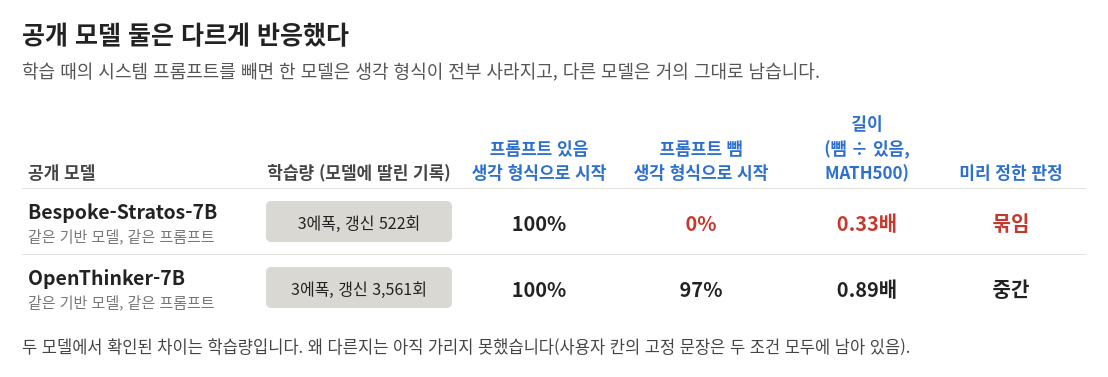
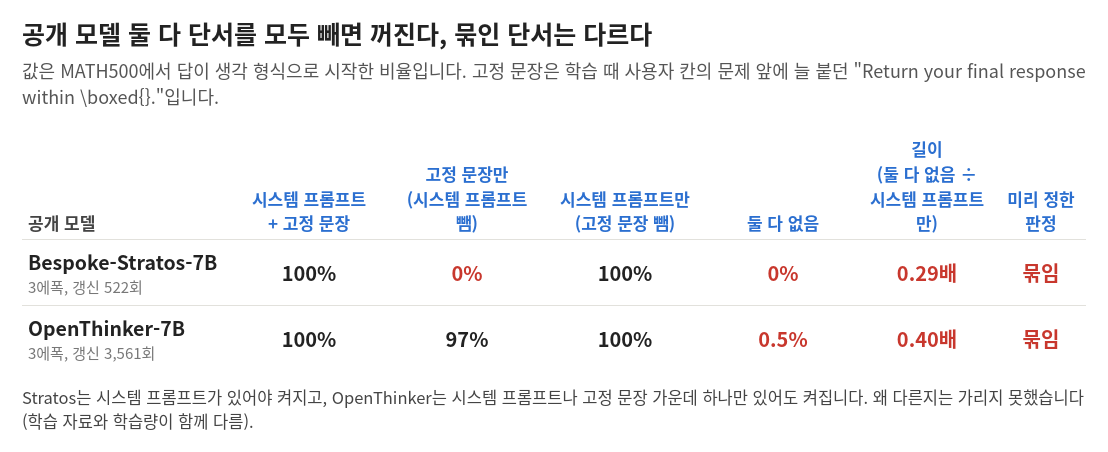
QFFT 11-24 오후: 둘째 공개 모델도 단서를 모두 빼면 꺼짐(2x2), 단서 격자와 문장 예측 마무리, 다음 행동 스모크와 크기 계산, 주장별 근거 점검

diff --git a/content/experiments/2026-11-24-f-state-aware-next-action.md b/content/experiments/2026-11-24-f-state-aware-next-action.md
@@ -2,7 +2,7 @@
 title: 풀이 상태를 보고 다음 행동을 고르는 적응형 추론, 우리가 해 본 것과 겹치는 연구와 다음 방향
 date: 2026-11-24
 project: QFFT
-status: 계획
+status: 진행 중
 idea: 후보
 idea_rank: 9
 method_examples:
@@ -10,7 +10,7 @@ method_examples:
     kind: 실험 설계 예시
     problem: '단서 없는 입력으로 풀기 시작한 답의 앞부분(예: 600 tokens쯤 쓴 풀이)을 그대로 둡니다. 문항과 앞부분은 모든 조건에서 같습니다.'
     comparison: '그 앞부분 뒤에 다섯 가지를 이어 써 봅니다. 그대로 계속 쓰기, 학습 때의 시스템 프롬프트를 넣고 계속 쓰기, 작은 사례부터 해 보라는 한 줄을 넣기, 지금 답을 내기, 앞부분을 버리고 처음부터 다시 풀기입니다. 행동마다 여러 번 이어 써서 정답률과 추가 tokens를 잽니다.'
-    assessment: '같은 문항이라도 상태에 따라 가장 좋은 행동이 바뀌는지, 가장 좋은 행동을 골랐을 때 같은 비용의 그대로 계속 쓰기보다 정답률이 3%p 이상 높은지를 봅니다. 아직 실행하지 않은 계획입니다.'
+    assessment: '같은 문항이라도 상태에 따라 가장 좋은 행동이 바뀌는지, 가장 좋은 행동을 골랐을 때 같은 비용의 그대로 계속 쓰기보다 정답률이 3%p 이상 높은지를 봅니다. 25문항 스모크에서는 상태마다 고른 정책이 +3.2%p [−0.3, +7.4]였고 구간이 0을 포함해 판정하지 않았습니다. 본 실행이 돌고 있습니다.'
 summary: 적응형 추론을 길이 조절이 아니라, 풀이 상태를 보고 계속, 탐색, 전환, 검증, 종료를 고르는 능력으로 다시 정리했습니다. 이 생각의 뼈대는 우리가 이미 여러 번 시험했고 대부분 기준에 못 미쳤으며, 같은 방향의 선행 연구도 여럿 있습니다. 남은 빈칸 두 가지와, 방법으로 갈지를 가르는 첫 실험을 적었습니다.
 published: true
 ---
@@ -21,7 +21,7 @@ published: true
 - 이 생각의 뼈대(같은 중간 상태에서 다음 행동을 바꿔 보기)는 우리가 11월 12일부터 여러 번 시험했습니다. 작은 실험에서는 대부분 미리 정한 기준에 못 미쳤습니다.
 - 같은 방향의 선행 연구가 이미 여럿 있습니다. "풀이 도중에 상태를 보고 전략을 바꾼다"만으로는 새 방법이 되기 어렵습니다.
 - 선행 연구 여덟 편과 우리 기록을 대조했을 때 남는 빈칸은 둘입니다. 당장은 답에 가까워지지 않지만 다음 방향을 정해 주는 탐색의 가치, 그리고 학습 입력 형식이 이 능력에 미치는 영향입니다.
-- 방법으로 갈지를 가르는 첫 실험(같은 중간 풀이에서 행동 다섯 가지를 실제로 이어 써 보기)과 판정 기준을 적었습니다. 아직 실행 전입니다.
+- 방법으로 갈지를 가르는 첫 실험(같은 중간 풀이에서 행동을 실제로 이어 써 보기)과 판정 기준을 적었습니다. 25문항 스모크가 구현 점검을 통과해 본 실행으로 넘어갔습니다(11월 24일 오후, 아래 "스모크 결과"). 스모크 값으로는 효과를 주장하지 않습니다.
 
 ## 왜 궁금했나
 
@@ -136,7 +136,7 @@ published: true
 <figcaption class="xp-cap">그림 3. 계획 그림. 행동을 설명으로 고르지 않고, 같은 상태에서 실제로 이어 쓴 결과로 견줍니다. 그림을 누르면 원본 크기로 열립니다.</figcaption>
 </figure>
 
-새 학습 없이, 이미 있는 모델로 합니다. 아직 실행하지 않은 계획입니다.
+새 학습 없이, 이미 있는 모델로 합니다. 스모크는 끝났고 본 실행이 돌고 있습니다(아래 "스모크 결과"). 실제 실행에서는 대조를 위해 "뜻 없는 한 줄 넣기"를 더해 행동이 여섯 가지입니다.
 
 1. **중간 상태를 모읍니다.** 단서 없는 입력으로 풀기 시작한 답의 앞부분을 문항마다 여러 깊이에서 자릅니다. 짧게 끝나 맞은 답, 짧게 끝나 틀린 답, 풀다가 길어진 답이 고루 들어가게 합니다.
 2. **같은 상태에서 다섯 가지 행동을 이어 씁니다.**
@@ -160,6 +160,64 @@ published: true
 - "여지 없음"이면 "이 크기의 모델에서는 문제 수준의 배분으로 충분하다"를 결과로 남기고, 방법은 단서를 걷어내는 학습과 추론 형식에 집중합니다.
 - 정답률이 움직일 수 있는 조건에서 해야 합니다. 우리 SFT는 MATH500에서 단서가 있든 없든 정답률이 같아서(80.5% 대 80.9%) 여지가 없습니다. 공개 모델 Bespoke-Stratos-7B는 단서를 빼면 MATH500 정답률이 84.0%에서 79.5%로 내려가므로 되찾을 몫이 있습니다.
 
+## 스모크 결과 (11월 24일 오후, 25문항)
+
+본 실행 전에 구현을 확인하려는 작은 실행입니다. 모델은 Bespoke-Stratos-7B, 문항은 MATH500 25문항(수준마다 5문항)입니다. 시스템 프롬프트 없이 쓴 답의 앞부분을 128, 512 tokens 근처의 문단 경계에서 잘라 상태 79개를 만들고, 상태마다 행동 여섯 가지를 4번씩 이어 썼습니다.
+
+**표 읽는 법.** 한 줄이 "늘 그 행동만 하는 정책" 하나입니다. 아래 두 줄은 행동을 고르는 정책입니다. 4번 가운데 2번의 결과로 행동을 고르고 나머지 2번으로 평가했습니다(양쪽을 바꿔 평균). 고르는 데 쓴 2번의 비용은 tokens에 넣지 않았으므로, 고르는 정책의 값은 "미리 굴려 볼 수 있다면 얻을 수 있는 몫"입니다. 그대로 쓸 수 있는 방법의 값이 아닙니다.
+
+| 정책 | 정답률 | 평균 tokens |
+|---|---|---|
+| 늘 그대로 계속 | 84.7% | 2,439 |
+| 늘 학습 때의 시스템 프롬프트를 넣고 계속 | 87.6% | 2,628 |
+| 늘 "더 간단한 경우부터 보자"는 한 줄을 넣기(탐색 지시) | 84.1% | 3,509 |
+| 늘 뜻 없는 한 줄을 넣기(탐색 지시의 대조) | 85.8% | 2,593 |
+| 늘 지금 답하기 | 30.0% | 350 |
+| 늘 처음부터 다시 풀기 | 82.0% | 2,413 |
+| 문항마다 행동 고르기 | 85.8% | 2,784 |
+| 상태마다 행동 고르기 | 87.8% | 2,503 |
+
+| 비교 | 차 [95% 구간] |
+|---|---|
+| 상태마다 고르기 − 그대로 계속 | +3.2 [−0.3, +7.4]%p |
+| 상태마다 고르기 − 문항마다 고르기 | +2.1 [−1.8, +7.0]%p |
+| 시스템 프롬프트 넣기 − 그대로 계속 | +2.9 [−1.3, +7.2]%p |
+| 탐색 지시 − 뜻 없는 한 줄 | −1.7 [−6.1, +3.3]%p |
+| 처음부터 다시 − 그대로 계속 | −2.7 [−7.1, +1.3]%p |
+| 지금 답하기 − 그대로 계속 | −54.7 [−68.3, −38.3]%p |
+
+- **구현 점검 셋을 통과했습니다.** 그대로 이어 쓴 답의 정답률(82.9%)이 원래 저장된 답(79.7%)과 10%p 안, 지금 답하기에서 답 상자가 닫힌 비율 100%, 시스템 프롬프트를 넣은 답의 길이가 1.25배입니다.
+- 상태 79개 가운데 그대로 계속이 가장 나았던 상태는 52개(65.8%)이고, 다른 행동이 더 나았던 상태는 27개(34.2%)입니다. 미리 정한 승급 기준(25% 이상)을 넘어 **본 실행으로** 넘어갔습니다.
+- **이 값으로는 아무 효과도 주장하지 않습니다.** 지금 답하기를 뺀 모든 차이의 구간이 0을 포함합니다.
+- 눈에 띄는 점 둘. 상태마다 고른 정책의 이득(+3.2%p)은 늘 시스템 프롬프트를 넣는 정책의 이득(+2.9%p)과 거의 같습니다. 지금 값으로는 "상태를 봐야 한다"와 "그냥 단서를 넣으면 된다"가 구분되지 않습니다. 그리고 탐색 지시는 뜻 없는 한 줄보다 낫지 않았고 tokens만 36% 더 썼습니다.
+
+### 본 실행의 크기를 다시 계산했습니다
+
+스모크에서 본 문항 사이의 흩어짐으로, 문항 수에 따라 얼마나 작은 차이까지 가려낼 수 있는지를 어림했습니다.
+
+**표 읽는 법.** 칸의 값은 "참값이 이만큼이면 80%의 확률로 0과 구분된다"는 크기입니다. 작을수록 작은 효과까지 가려냅니다.
+
+| 비교 | 스모크에서 본 값 | 75문항 | 275문항 | 400문항 |
+|---|---|---|---|---|
+| 상태마다 고르기 − 그대로 계속 | +3.2%p | 3.2%p | 1.7%p | 1.4%p |
+| 상태마다 − 문항마다 | +2.1%p | 3.6%p | 1.9%p | 1.6%p |
+| 시스템 프롬프트 넣기 − 그대로 계속 | +2.9%p | 3.5%p | 1.8%p | 1.5%p |
+| 탐색 지시 − 뜻 없는 한 줄 | −1.7%p | 3.8%p | 2.0%p | 1.7%p |
+
+- 원래 정해 둔 본 실행(75문항)은 3.2–3.8%p 이상의 차이만 가려냅니다. 스모크에서 본 값(2–3%p)이 참값이라면 "판정 불가"가 나올 가능성이 큽니다.
+- 그래서 두 단계로 정했습니다. **1단계**는 정해 둔 75문항을 그대로 돌려 정해 둔 판정을 냅니다. 1단계에서 "상태마다 고르기 − 그대로 계속"과 "시스템 프롬프트 넣기 − 그대로 계속"이 둘 다 +1%p에 못 미치면 여기서 닫습니다. 하나라도 넘으면 **2단계**로 MATH500의 나머지 400문항(지금까지 이 실험에 쓰지 않은 문항)에서 같은 실험을 하고, 확정 판정은 2단계 문항만으로 냅니다.
+- 이 규칙은 1단계 결과를 보기 전에 적었습니다.
+
+### 이 방향이 논문이 되려면
+
+| 묻는 것 | 지금 | 필요한 것 |
+|---|---|---|
+| 상태마다 고르면 나아지는가 | 스모크뿐(판정용 아님) | 문항 수를 늘린 실행(1단계, 2단계). 새 학습 없이 됨 |
+| 같은 문항 안에서도 상태에 따라 최선이 다른가 | 스모크뿐 | 위와 같음 |
+| 미리 굴려 보지 않고도 고를 수 있는가(방법) | 없음 | 고르는 신호나 학습을 새로 설계해야 함. 위 둘이 확인된 뒤 |
+
+지금은 파일럿 단계입니다. 여지가 확인돼도 방법이 되려면 한 단계가 더 있습니다. 후보 순위는 본 실행 결과를 보고 다시 정합니다.
+
 ## 한계
 
 - 우리가 이미 한 시험은 대부분 8문항 안팎의 작은 실험입니다. "효과가 없다"가 아니라 "이 크기에서는 보이지 않았다"입니다.
@@ -169,4 +227,4 @@ published: true
 
 ## 일지에서의 실험 번호
 
-방향 정리와 선행 대조 = 개발일지 11월 24일 "상태를 보고 다음 행동을 고르는 방향" 항목. 실험은 계획 단계입니다.
+방향 정리와 선행 대조 = 개발일지 11월 24일 "상태를 보고 다음 행동을 고르는 방향" 항목. 스모크와 본 실행의 크기 계산 = 같은 날 "끝난 칸 판정" 항목의 5절과 6절.

diff --git a/content/experiments/2026-11-24-d-cue-ladder.md b/content/experiments/2026-11-24-d-cue-ladder.md
@@ -218,7 +218,7 @@ MATH500 Level 5 문항입니다.
 | 시스템 프롬프트 없이 학습한 SFT | 맨 글 | 없음 (질문 글은 있으나 대화 틀이 없음) | 바닥 곡선 → **어긋남** (GSM8K 0.18, MATH500 0.73, AIME25 0.97, 표시 "중간") |
 | 시스템 프롬프트 없이 학습한 SFT | 시스템 프롬프트 없음 (GSM8K, AIME25 포함) | 모두 | 늘 긺 → **맞음** (GSM8K 0.88, MATH500 0.99, AIME25 0.96) |
 | QFFT | 맨 글 앞에 시스템 프롬프트 문장을 글자로 붙임 | 학습 때 본 단서 자체가 없음 | 바닥 곡선 → **어긋남** (GSM8K 0.63, MATH500 0.81, AIME25 0.96, 표시 "중간") |
-| S1.1 자료로 학습한 SFT | 맨 글 | 없음 | 바닥 곡선 |
+| S1.1 자료로 학습한 SFT | 맨 글 | 없음 | 바닥 곡선 → **맞음** (GSM8K 0.09, MATH500 0.40, AIME25 0.83) |
 
 - "바닥 곡선"은 GSM8K 0.30 이하이고 MATH500 0.70 이하, "늘 긺"은 둘 다 0.85 이상으로 정했습니다. 경계는 위 표에서 이미 본 값으로 잡았고, 새 칸에만 적용합니다.
 - 위 세 칸이 모두 맞으면 읽기를 유지하고, 하나라도 반대쪽 끝이면 읽기를 고칩니다.
@@ -236,6 +236,11 @@ MATH500 Level 5 문항입니다.
 - A1에 같은 입력을 주면 0.74 [0.66, 0.82], 0.79 [0.73, 0.86], 0.93입니다(예측 없이 기록만 한 칸). 문장을 글자로 붙였을 때 켜지는 정도는 GSM8K 기준으로 SFT 0.97, A1 0.74, QFFT 0.63 순서입니다.
 - 읽은 뜻(결과를 본 뒤의 정리): 이 문장은 학습 때 본 단서로만 작용하는 것이 아닙니다. 단계별로 풀라는 뜻이, 그 문장으로 학습한 적 없는 모델의 긴 풀이도 일부 켭니다. 원래 모델은 이 문장이 있는 표준 입력과 문장이 없는 맨 글 입력에서 길이가 거의 같으므로(남는 비율 −0.07, −0.02, −0.01), 긴 풀이를 배운 모델에서만 나오는 반응입니다. 그래서 위의 "QFFT에는 켜는 단서가 아예 없다"는 정리는 고칩니다. QFFT는 학습 때 묶인 단서가 없을 뿐이고, 지시의 뜻에는 반응합니다.
 
+- 14:46 기준 마지막 두 칸이 끝나 9칸이 모두 나왔습니다. S1.1 자료(다른 학습 자료)로 학습한 SFT에 문제 글만 주면 남는 비율이 0.09 [−0.03, 0.21], 0.40 [0.30, 0.50], 0.83 [0.73, 0.91]로 **예측대로 바닥 곡선**입니다. 긴 풀이 비율은 GSM8K 7%, MATH500 16%, AIME25 83%입니다.
+- 예측을 적은 다섯 칸의 결과는 맞음 셋, 어긋남 둘입니다. 종합 판정 "부분 지지"는 그대로입니다.
+- 시스템 프롬프트 없이 학습한 SFT에 학습 문장을 글자로 붙인 칸(예측 없이 기록만 한 칸)은 0.47 [0.36, 0.58], 0.79, 0.92로 "중간"입니다. 이 모델의 맨 글 값(0.18, 0.73, 0.97)보다 GSM8K에서 높습니다.
+- 같은 문장을 문제 글 앞에 글자로 붙였을 때의 GSM8K 값을 네 모델에서 모으면 SFT 0.97, A1 0.74, QFFT 0.63, 시스템 프롬프트 없이 학습한 SFT 0.47입니다. 이 문장을 학습 때 시스템 프롬프트로 본 두 모델(SFT, A1)이 높고, 본 적 없는 두 모델도 문장이 없을 때(0.16, 0.18)보다 높습니다. "학습 때 묶인 몫"과 "지시의 뜻으로 켜지는 몫"이 따로 있다는 읽기와 맞습니다. 학습은 모델마다 한 번이라 순서 자체는 확정이 아닙니다.
+
 ## 선행 연구와의 관계
 
 - QFFT 논문은 평가를 대화 형식으로만 했습니다. 맨 글 입력으로 평가한 결과나, 다른 방식으로 학습한 모델에서 같은 모양이 나온다는 결과는 그 논문에 없습니다.
@@ -243,16 +248,34 @@ MATH500 Level 5 문항입니다.
 - 공개된 긴 추론 모델의 저장소에는 "시스템 프롬프트가 없으면 생각 형식이 안 나온다"는 사용자 보고가 있습니다. 그래서 "프롬프트를 빼면 꺼진다"를 처음 발견한 것처럼 쓰지 않습니다.
 - 학습 입력의 구성요소별로 추론 길이가 무엇에 묶이는지를 평가 입력과 엇갈려 본 연구는 확인한 범위에서 찾지 못했습니다.
 
+## 지금 결과로 어디까지 말할 수 있나 (11월 24일 오후 점검)
+
+"이 결과만으로 논문이 되는가"를 주장별로 따져 봤습니다. 새 계산은 없고, 위 결과와 앞선 글의 판정 값을 크기와 함께 다시 놓은 것입니다.
+
+**표 읽는 법.** "닫힘"은 미리 정한 기준으로 판정이 났다는 뜻입니다. 논문에 충분하다는 뜻은 아닙니다. "닫는 방법"에서 "추론만"은 이미 있는 모델로 문항 수만 늘리면 되는 것이고, "새 학습"은 모델을 다시 학습해야 하는 것입니다.
+
+| 주장 | 지금 근거(크기) | 상태 | 닫는 방법 |
+|---|---|---|---|
+| SFT의 긴 풀이는 학습 시스템 프롬프트에 묶여 있고, 빼도 정답률은 유지된다 | MATH500 500문항 × 4회. tokens 0.60배 [0.57, 0.64], 바로잡은 ACC +0.4 [−1.6, +2.2]%p, 대조 둘([학습 프롬프트 빼기](2026-11-12-b-drop-training-prompt.html)) | 닫힘(이 모델, MATH500) | 새 학습: 시드를 바꾼 반복 |
+| 단서를 모두 빼면 SFT도 QFFT와 같은 길이 배분이 된다 | 문제 글만 입력, 여섯 체크포인트, MATH500 100문항 × 2회. 문항 단위 상관 0.73 | 길이는 판정됨, 정답률은 판정 불가 | 추론만: 500문항 × 4회(등록함) |
+| 어느 단서에 묶이는지는 학습 입력이 정한다 | 학습 형식 네 가지를 한 번씩 학습한 모델, 예측 다섯 칸 중 셋 맞음 | "부분 지지" | 새 학습: 같은 자료에서 학습 입력의 단서 하나만 바꿈 |
+| 남이 공개한 모델에서도 같다 | 공개 모델 둘, 100문항. 단서를 빼면 생각 형식 100% → 0%([공개 모델 글](2026-11-24-a-public-model-prompt-gate.html)) | 두 모델에서 닫힘 | 추론만: 크기와 계열이 다른 공개 모델 |
+| 재학습 없이 QFFT 수준의 절감을 얻는다 | A1에서 시스템 프롬프트만 빼면 MATH500 500문항에서 ACC −0.4 [−1.8, +1.0]%p, tokens 0.74배 | MATH500, 대화 틀 입력에서 닫힘 | 추론과 채점: 답 형식에 공정한 채점 |
+
+- **왜 100문항으로는 정답률을 말할 수 없나.** 정답률 차의 95% 구간 반폭이 100문항 × 2회에서는 5–7%p였고, 500문항 × 4회에서는 1.4–1.9%p였습니다. ±2%p 안에서 "못지않다"를 말하려면 뒤의 크기가 필요합니다. 길이는 차이가 커서(남는 비율 0.08 대 0.97) 100문항으로도 판정이 납니다.
+- **정리하면** 길이 쪽 현상은 이미 큰 효과로 판정됐습니다. 모자란 것은 세 가지입니다. 문제 글만 넣는 입력의 정답률(문항 수를 늘리면 됨), 원인 주장과 시드 반복(새 학습이 있어야 함), 모델 폭(공개 모델을 더 넣으면 됨)입니다.
+- **가장 큰 위험.** 새 학습 뒤에도 원인 주장이 "부분 지지"에 머물면 주장을 "평가 입력의 단서가 길이를 가르고, QFFT의 효과는 그것으로 설명된다"로 좁혀야 합니다. 기반 모델이 하나(Qwen2.5-7B)라는 점, 프롬프트 형식에 따라 길이가 달라진다는 것 자체는 이미 알려져 있다는 점도 위험입니다.
+
 ## 한계
 
 - 단서 사다리 표는 결과를 보고 모은 표입니다. 미리 정한 기준으로 판정한 것은 문항 단위 일치와 정답률 둘이고, 읽기 자체의 시험은 위 9칸입니다.
-- 모델마다 학습은 1번입니다. 문항은 100, 100, 30개이고 맨 글 입력은 문항당 1–2회입니다.
+- 모델마다 학습은 1번입니다. 문항은 100, 100, 30개이고 맨 글 입력은 문항당 1–2회입니다. 같은 입력을 MATH500 500문항 × 4회로 다시 재는 확인을 11월 24일 오후에 등록했습니다.
 - 정답률은 MATH500(A1에서 "못지않음")과 GSM8K(바로잡은 채점으로 1%p 안)에서 확인했습니다. GSM8K는 원래 모델도 92%라 변별이 없고, AIME25는 문항이 적어 판정하지 않았습니다. 어려운 문제에서의 정답률은 아직 열려 있습니다.
 - 맨 글 입력은 모델이 평소 쓰이는 방식이 아닙니다. 파이썬 코드 풀이 같은 다른 문체가 섞입니다.
 
 ## 다음
 
-1. 위 9칸의 결과를 이 글에 덧붙입니다.
+1. 9칸은 모두 끝났습니다(위). 이어서 문제 글만 넣는 입력을 전체 크기로 다시 잽니다. SFT, QFFT, A1에 MATH500 500문항 × 4회, GSM8K 300문항 × 2회, AIME25 30문항 × 8회입니다. 미리 적은 예측은 "세 모델 모두 바닥 곡선", "SFT와 QFFT는 같은 곡선", "SFT의 정답률은 QFFT에 못지않음"입니다.
 2. 어려운 벤치마크(AIME, AMC)에서 단서 없는 입력의 정답률을 문항 수를 늘려 봅니다.
 3. 같은 자료로 학습 입력의 한 요소만 바꿔 학습해, 긴 풀이가 어느 요소에 묶이는지를 직접 봅니다(학습이 필요한 실험, 승인 뒤). 어긋난 칸 때문에 이 실험이 더 중요해졌습니다.
 
